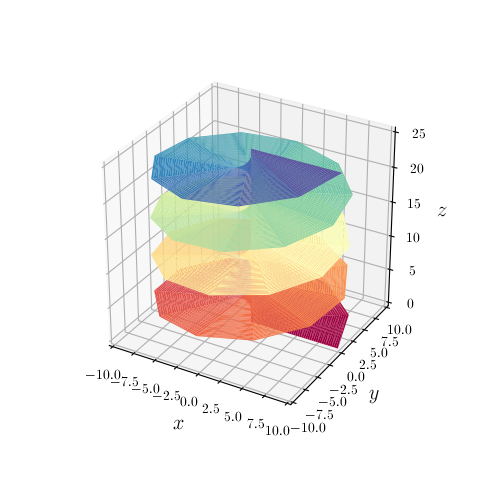
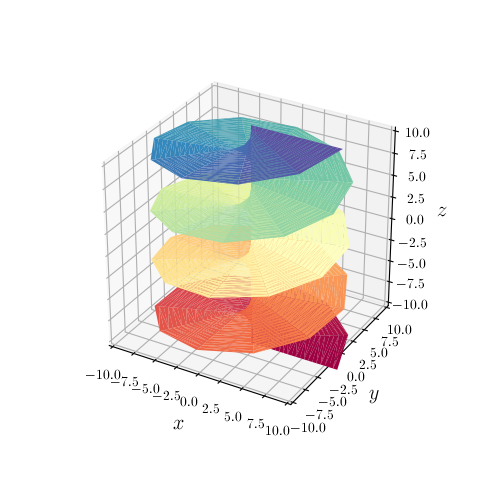
Helicoid limits

diff --git a/3D/Tri-Surface/helicoid.py b/3D/Tri-Surface/helicoid.py
@@ -14,7 +14,7 @@ c = float(input("c: "))
 n = angle / 360
 
 u = np.linspace(0, r, endpoint=True, num=11 * n)
-v = np.linspace(0, np.deg2rad(angle), endpoint=True, num=11 * n)
+v = np.linspace(-np.deg2rad(angle), np.deg2rad(angle), endpoint=True, num=22 * n)
 u, v = np.meshgrid(u, v)
 u, v = u.flatten(), v.flatten()
 
@@ -39,7 +39,7 @@ lim = (max(abs(max(max(x), max(y))), abs(min(min(x), min(y)))))
 
 ax.set_xlim(-lim, lim)
 ax.set_ylim(-lim, lim)
-ax.set_zlim(0, max(z))
+ax.set_zlim(-lim, lim)
 
 plt.show()
 
